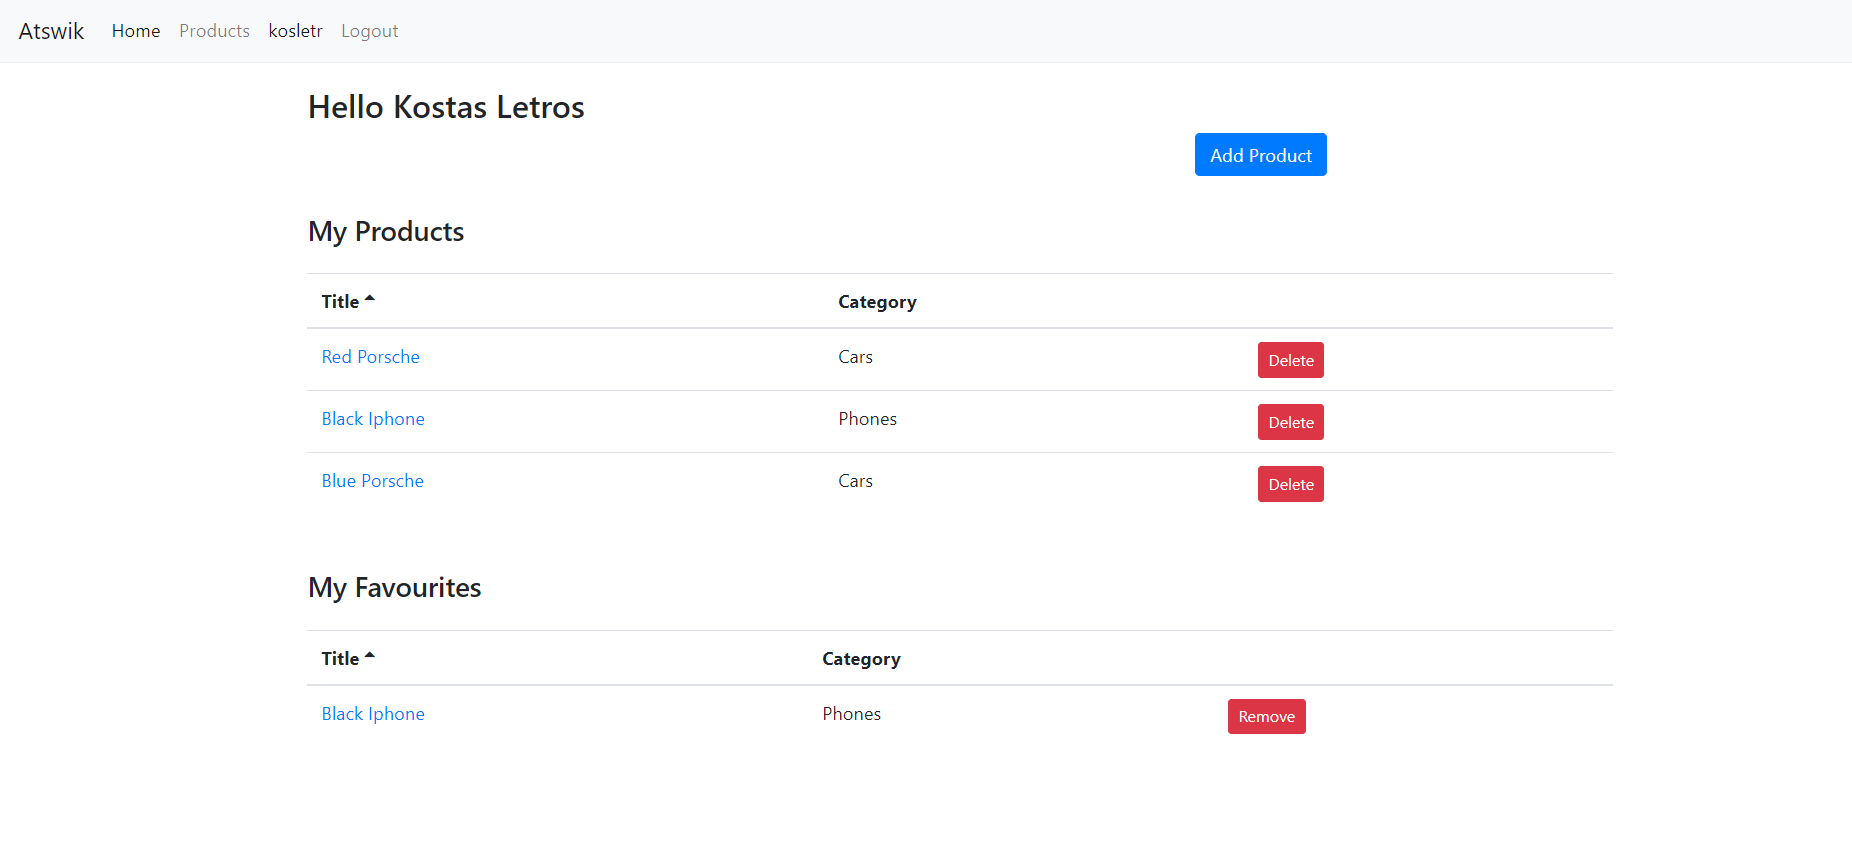
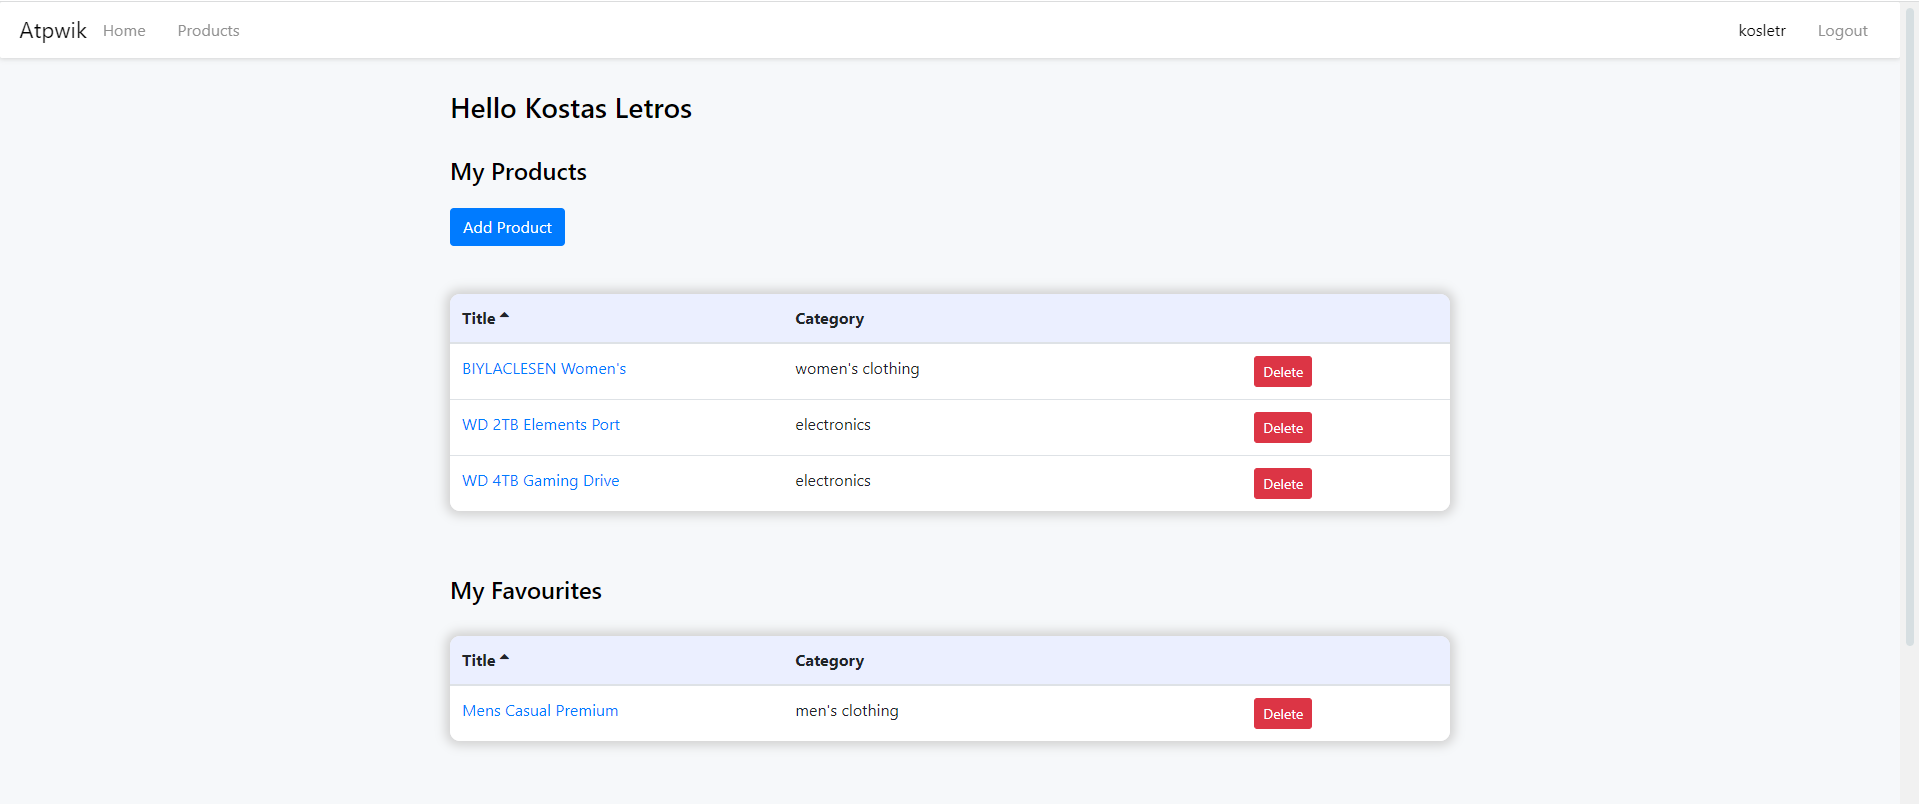
Update README + name of the app + screenshots

diff --git a/client-app/src/components/navbar.jsx b/client-app/src/components/navbar.jsx
@@ -14,7 +14,7 @@ export default function Navbar({ user }) {
         <div className="nav-group">
           <div>
             <NavLink className="my-nav-brand" exact to="/">
-              Atswik
+              Atpwik
             </NavLink>
           </div>
           <div>

diff --git a/README.md b/README.md
@@ -1,40 +1,58 @@
-# MERN ATSWIK (MERN Application to show what i know)
+# MERN ATPWIK (MERN Application To Present What I Know)
 
-A Mongodb-Express-Reactjs-Nodejs full stack web application built using the bootstrap css framework along with font-awesome icons to demonstrate my full stack developement knowledge/skills. The app is still under developement.
+A Mongodb-Express-Reactjs-Nodejs full stack web application built using mostly pure CSS and additionally the bootstrap css framework along with font-awesome icons to demonstrate my full stack developement knowledge/skills. The app is still under developement.
 
 # How to run the app
 
-1. To run the app you need to have Node.js (preferably version 12 or more) and MongoDB installed.
-2. Install server dependencies by running (inside the root directory):
+1. To run the app you need to have Node.js (tested for versions >= 12) and MongoDB installed.
+2. Install server and client dependencies by running:
 
 ```bash
-	npm i
+	npm i && cd client-app && npm i
 ```
 
-3. Install client dependencies by browsing the `client-app` directory and running:
-
-```bash
-	npm i
-```
-
-3. To start both the client and the server app, in the root directory run:
+3. To start both the client and the server app, in the **root directory** run:
 
 ```bash
 	npm run dev
 ```
 
-# Screenshots of the app (so far)
+docker-compose yaml file comming soon...
 
-![products](screenshots/products.png)
+# Screenshots of the app so far
+
+## Products page (desktop)
+
+![products-desktop](screenshots/products.png)
+
+## Products page (mobile)
+
+![products-mobile](screenshots/products-mobile.png)
+
+## Searching and filtering by category
 
 ![search filtering](screenshots/search_filtering.png)
 
+## Products Page
+
 ![example product](screenshots/example_product.png)
+
+## Login Form
 
 ![login](screenshots/login.png)
 
+## Forms have validation
+
 ![register](screenshots/register.png)
 
+## User's Profile Page
+
 ![profile](screenshots/profile.png)
+
+## Profile Admin Panel
+
+![admin](screenshots/profile-admin-panel.png)
+
+## Modify an existing product
 
 ![add or modify product](screenshots/add_or_modify_product.png)
